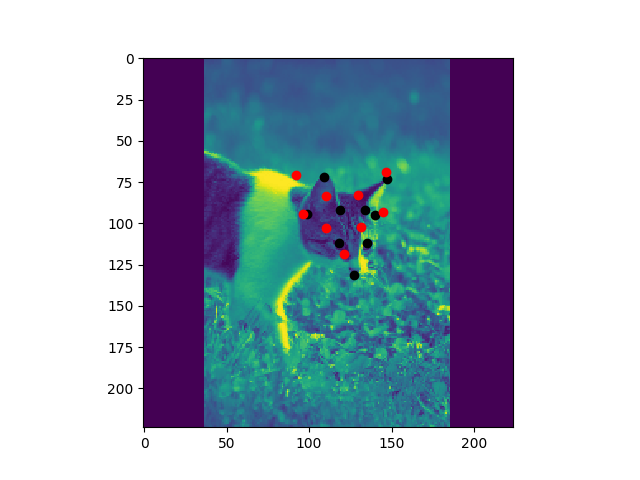
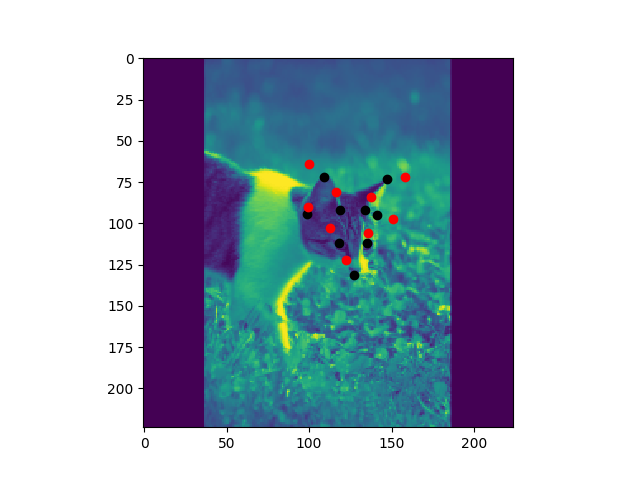
model overfits

diff --git a/model.py b/model.py
@@ -1,7 +1,7 @@
 import tensorflow as tf
-from tensorflow.keras.layers import Conv2D, MaxPooling2D, Flatten, Dense, Dropout
+from tensorflow.keras.layers import Conv2D, MaxPooling2D, Flatten, Dense, Dropout, BatchNormalization
 from tensorflow.keras import Sequential
-from tensorflow.keras.callbacks import ModelCheckpoint
+from tensorflow.keras.callbacks import ModelCheckpoint, ReduceLROnPlateau
 import glob
 from os.path import join
 import numpy as np
@@ -10,10 +10,12 @@ from matplotlib.patches import Circle
 from skimage.io import imshow
 import os
 import gc
+import preprocess
 
-class Model:
+class Model():
 
     def __init__(self, max_x, max_y):
+        super(Model, self).__init__() 
         self.max_x = max_x
         self.max_y = max_y
         self.model = self.get_model()
@@ -23,55 +25,70 @@ class Model:
         model = Sequential()
         model.add(Conv2D(64, kernel_size=3, strides=2, padding='same', activation=tf.nn.leaky_relu, input_shape=(self.max_y, self.max_x, 1)))
         model.add(MaxPooling2D(pool_size=(2, 2), padding='same'))
+        model.add(BatchNormalization())
         model.add(Conv2D(128, kernel_size=3, strides=2, padding='same', activation=tf.nn.leaky_relu))
         model.add(MaxPooling2D(pool_size=(2, 2), padding='same'))
-        model.add(Conv2D(128, kernel_size=3, strides=2, padding='same', activation=tf.nn.leaky_relu))
+        model.add(BatchNormalization())
+        model.add(Conv2D(256, kernel_size=3, strides=2, padding='same', activation=tf.nn.leaky_relu))
         model.add(MaxPooling2D(pool_size=(2, 2), padding='same'))
-        model.add(Conv2D(64, kernel_size=1, strides=2, padding='same', activation=tf.nn.leaky_relu))
+        model.add(BatchNormalization())
+        model.add(Conv2D(512, kernel_size=3, strides=2, padding='same', activation=tf.nn.leaky_relu))
         model.add(MaxPooling2D(pool_size=(2, 2), padding='same'))
+        model.add(BatchNormalization())
         model.add(Flatten())
         
-        model.add(Dense(128, activation=tf.nn.leaky_relu))
+        model.add(Dense(512, activation=tf.nn.leaky_relu))
         model.add(Dropout(0.1))
         model.add(Dense(256, activation=tf.nn.leaky_relu))
-        model.add(Dropout(0.2))
+        model.add(Dropout(0.1))
         model.add(Dense(128, activation=tf.nn.leaky_relu))
         model.add(Dropout(0.1))
         model.add(Dense(18))
+        model.summary()
         return model
 
     def compile_model(self):
-        self.model.compile(loss='mean_squared_error', optimizer='adam', metrics = [self.accuracy])
+        self.model.compile(loss='mean_squared_error', optimizer=tf.keras.optimizers.Adam(learning_rate=1e-5), metrics = [self.accuracy])
 
     def get_imgs(self, folder):
         img_path = 'processed_train_imgs/img' + str(folder) + '.npy'
         coord_path = 'processed_train_coords/coord' + str(folder) + '.npy'
         images = np.load(img_path)
-        images = np.expand_dims(images, axis=-1)
         coords = np.load(coord_path)
-        coords = np.reshape(coords, (-1, 18))
         return images, coords
     
     def train_model(self):
         checkpoint = ModelCheckpoint(filepath='weights/checkpoint.hdf5', monitor="val_loss", verbose=1, save_best_only=True, mode="auto")
-        epochs = 100
+        epochs = 50
         batch_size = 32
 
         for j in range(epochs):
             print("epoch: ", j)
-            #folder = j%7
-            folder = 0
+            folder = j%7
             images, coords = self.get_imgs(folder)
+            # randomly mirror images
+            # images, coords, = preprocess.mirror(images, coords)
+            images = np.expand_dims(images, axis=-1)
+            coords = np.reshape(coords, (-1, 18))
+
             # shuffle examples and indices in same way
             indices = np.arange(len(images))
             np.random.shuffle(indices)
             X = images[indices]
             Y = coords[indices]
             # for each batch
-            self.model.fit(X, Y, validation_split=0.2, epochs=1, batch_size=batch_size, callbacks=[checkpoint])
+            self.model.fit(X, Y, validation_split=0.3, epochs=1, batch_size=batch_size, callbacks=[checkpoint, ReduceLROnPlateau(monitor="val_loss", factor=0.2, patience=5, verbose=1, mode="auto")])
             gc.collect()
-              
     
+    def get_test_data(self):
+        test_img_path = "processed_test_imgs/img0.npy"
+        test_coord_path = "processed_test_coords/coord0.npy"
+        test_images = np.load(test_img_path)
+        test_coords = np.load(test_coord_path)
+        test_images = np.expand_dims(test_images, axis=-1)
+        test_coords = np.reshape(test_coords, (-1, 18))
+        return test_images, test_coords
+
     # Load weights for a previously trained model
     def load_trained_model(self):
         self.model.load_weights('weights/checkpoint.hdf5')
@@ -79,6 +96,7 @@ class Model:
     # Function which plots an image with it's corresponding keypoints
     def visualize_points(self, img, coords, img_index):
         img_copy = np.copy(img)
+        self.test(np.reshape(img, (1, 224, 224)), coords)
         img = np.reshape(img, (1, 224, 224, 1))
         predicted = self.model.predict(img, verbose=1)
         predicted = tf.reshape(predicted, (9,2))
@@ -91,13 +109,11 @@ class Model:
         plt.savefig("output" + str(img_index) + ".png")
         plt.close()
 
-    def accuracy(self, y_true, y_pred, threshold=10):
+    def accuracy(self, y_true, y_pred, threshold=16):
         y_true = tf.reshape(y_true, (-1,9,2))
         y_pred = tf.reshape(y_pred, (-1,9,2))
         distances = tf.norm(y_pred - y_true, axis=2)
-        print("DISTANCES: ", distances.shape)
         out = tf.where(distances<threshold, 1., 0.)
-        out = tf.reduce_sum(out, axis=1) / 9.
         acc = tf.reduce_mean(out)
         # print(acc)
         return acc

diff --git a/preprocess.py b/preprocess.py
@@ -5,13 +5,13 @@ import argparse
 from skimage import io
 from cv2 import imread
 from skimage.color import rgb2gray
+from skimage.transform import resize
 import matplotlib.pyplot as plt
-from model import Model
 
 os.environ['TF_CPP_MIN_LOG_LEVEL'] = '2'
 
 def main():
-    for j in range(1):
+    for j in range(7):
         data_dir = 'cat-dataset/CAT_0' + str(j)
         print("DATA DIR: ", data_dir)
         image_paths, coordinate_paths = get_cats(data_dir)
@@ -36,11 +36,10 @@ def main():
             max_x = max(image.shape)
             max_y = max_x
 
+            image, coord = pad_image(image, coord, max_x, max_y)
+            #print("done with padding")
             image, coord = resize_image(image, coord, 224, 224)
-            # image, coord = pad_image(image, coord, max_x, max_y)
-            # print("done with padding")
-
-            # print("done with preprocessing")
+            #print("done with preprocessing")
             all_ims[i] = image
             all_coords[i] = coord
             # save_image(image, coord, i)
@@ -150,9 +149,11 @@ def pad_image(image, coord, max_x, max_y):
     new_image = np.zeros((max_y, max_x))
     x_diff = max_x - image.shape[1]
     y_diff = max_y - image.shape[0]
-    top = int(np.floor(np.random.rand()*y_diff))
+    #top = int(np.floor(np.random.rand()*y_diff))
+    top = int(0.5*y_diff)
     bottom = y_diff - top
-    left = int(np.floor(np.random.rand()*x_diff))
+    #left = int(np.floor(np.random.rand()*x_diff))
+    left = int(0.5*x_diff)
     right = x_diff-left
     coord[:,0] += left
     coord[:,1] += top
@@ -175,49 +176,25 @@ def mirror1(image, coord, mirror_pct=0.3):
 def resize_images(images, coords, new_height, new_width):
     height = images.shape[1]
     width = images.shape[2]
-    max_dim = max(height, width)
-    scale_width = new_width/float(max_dim)
-    scale_height = new_height/float(max_dim)
+    scale_width = new_width/float(width)
+    scale_height = new_height/float(height)
 
-    new_h = int(scale_height*height)
-    new_w = int(scale_width*width)
     new_images = []
     for i in range(len(images)):
-        coords[i,:, 0] *= scale_width
-        coords[i, :,1] *= scale_height
-        d_w = new_width - new_w
-        d_h = new_height - new_h 
-        top, bottom = d_h // 2, 3*d_h // 2
-        left, right = d_w // 2, 3*d_w // 2
-
-        color = [0, 0, 0]
-        new_image = cv2.copyMakeBorder(cv2.resize(images[i], (new_w, new_h)), top, bottom, left, right, cv2.BORDER_CONSTANT, value=color)
-        coords[i, :, 0] += left
-        coords[i, :, 1] += top
+        new_images.append(resize(images[i], (new_height, new_width)))
+        coords[i, :, 0] *= scale_width
+        coords[i, :, 1] *= scale_height
     return np.array(new_images), coords.astype(np.int)
 
 def resize_image(image, coord, new_height, new_width):
     height = image.shape[0]
     width = image.shape[1]
-    max_dim = max(height, width)
-    scale_width = new_width/float(max_dim)
-    scale_height = new_height/float(max_dim)
+    scale_width = new_width/float(width)
+    scale_height = new_height/float(height)
 
-    new_h = int(scale_height*height)
-    new_w = int(scale_width*width)
-
-    new_image = cv2.resize(image, (new_w, new_h))
+    new_image = resize(image, (new_height, new_width))
     coord[:, 0] *= scale_width
-    coord[:,1] *= scale_height
-    d_w = new_width - new_w
-    d_h = new_height - new_h 
-    top, bottom = d_h // 2, d_h - (d_h // 2)
-    left, right = d_w // 2, d_w - (d_w // 2)
-
-    color = [0, 0, 0]
-    new_image = cv2.copyMakeBorder(new_image, top, bottom, left, right, cv2.BORDER_CONSTANT, value=color)
-    coord[:, 0] += left
-    coord[:, 1] += top
+    coord[:, 1] *= scale_height
 
     return np.array(new_image), coord.astype(np.int)
 

diff --git a/main.py b/main.py
@@ -1,4 +1,5 @@
 import numpy as np
+import tensorflow as tf
 import os
 import cv2
 import argparse
@@ -7,24 +8,24 @@ from skimage.color import rgb2gray
 from skimage.transform import resize, rescale
 import matplotlib.pyplot as plt
 from model import Model
+#from vgg_model import VGGModel
 
 os.environ['TF_CPP_MIN_LOG_LEVEL'] = '2'
 
 def main():
-    # np.save('./processed_test_imgs/img' + str(folder), test_images)
-    # np.save('./processed_test_coords/coord'+ str(folder), test_coords)
-    
-    # np.save('./processed_train_imgs/img'+ str(folder), train_images)
-    # np.save('./processed_train_coords/coord'+ str(folder), train_coords)
+    vgg_weights_path = "vgg16_imagenet.h5"
 
     img_path = 'processed_train_imgs/img0.npy'
     coord_path = 'processed_train_coords/coord0.npy'
     images = np.load(img_path)
     coords = np.load(coord_path)
     model = Model(224, 224)
+    #model = VGGModel()
+    #model(tf.keras.Input(shape=(224,224,3)))
+    #model.load_weights(vgg_weights_path, by_name=True)
     model.compile_model()
-    model.load_trained_model()
-    model.train_model()
+    #model.load_trained_model()
+    #model.train_model()
     model.load_trained_model()
 
     
@@ -33,7 +34,7 @@ def main():
     test_images = np.load(test_img_path)
     test_coords = np.load(test_coord_path)
     model.test(test_images, test_coords)
-    indices = [10, 100, 500]
+    indices = [10, 100, 200, 300]
     for img_index in indices:
         model.visualize_points(images[img_index], coords[img_index], img_index)
 
